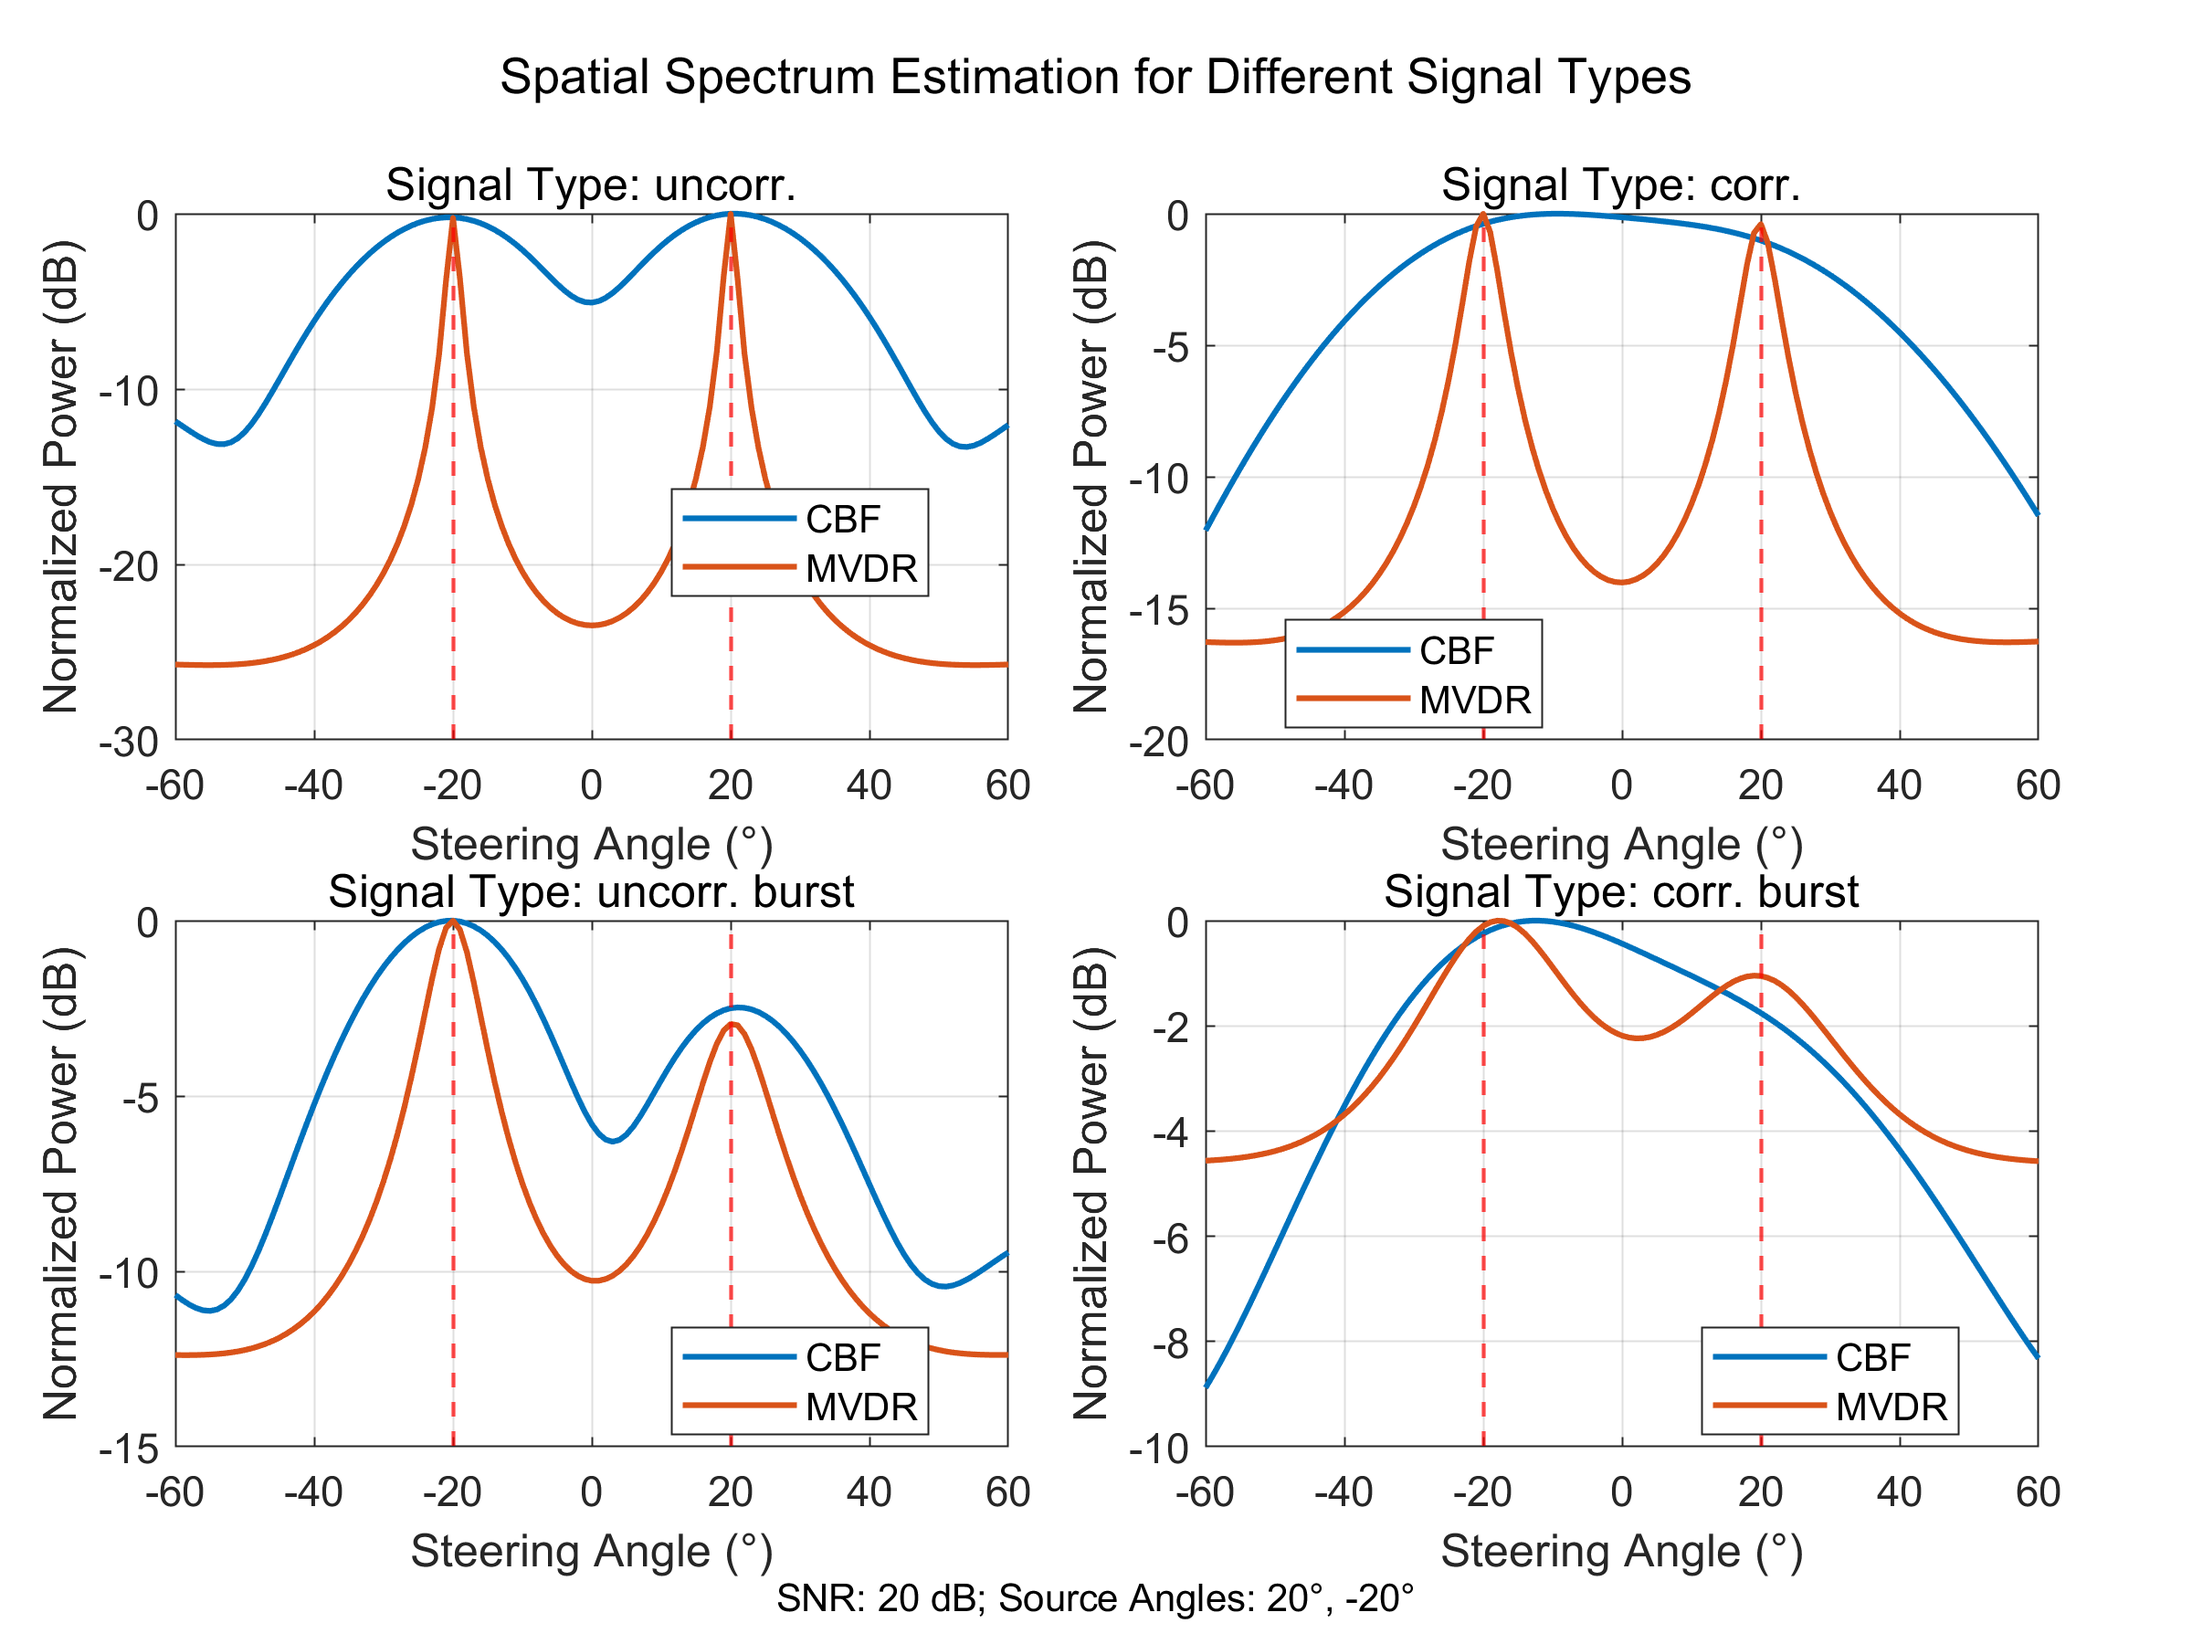
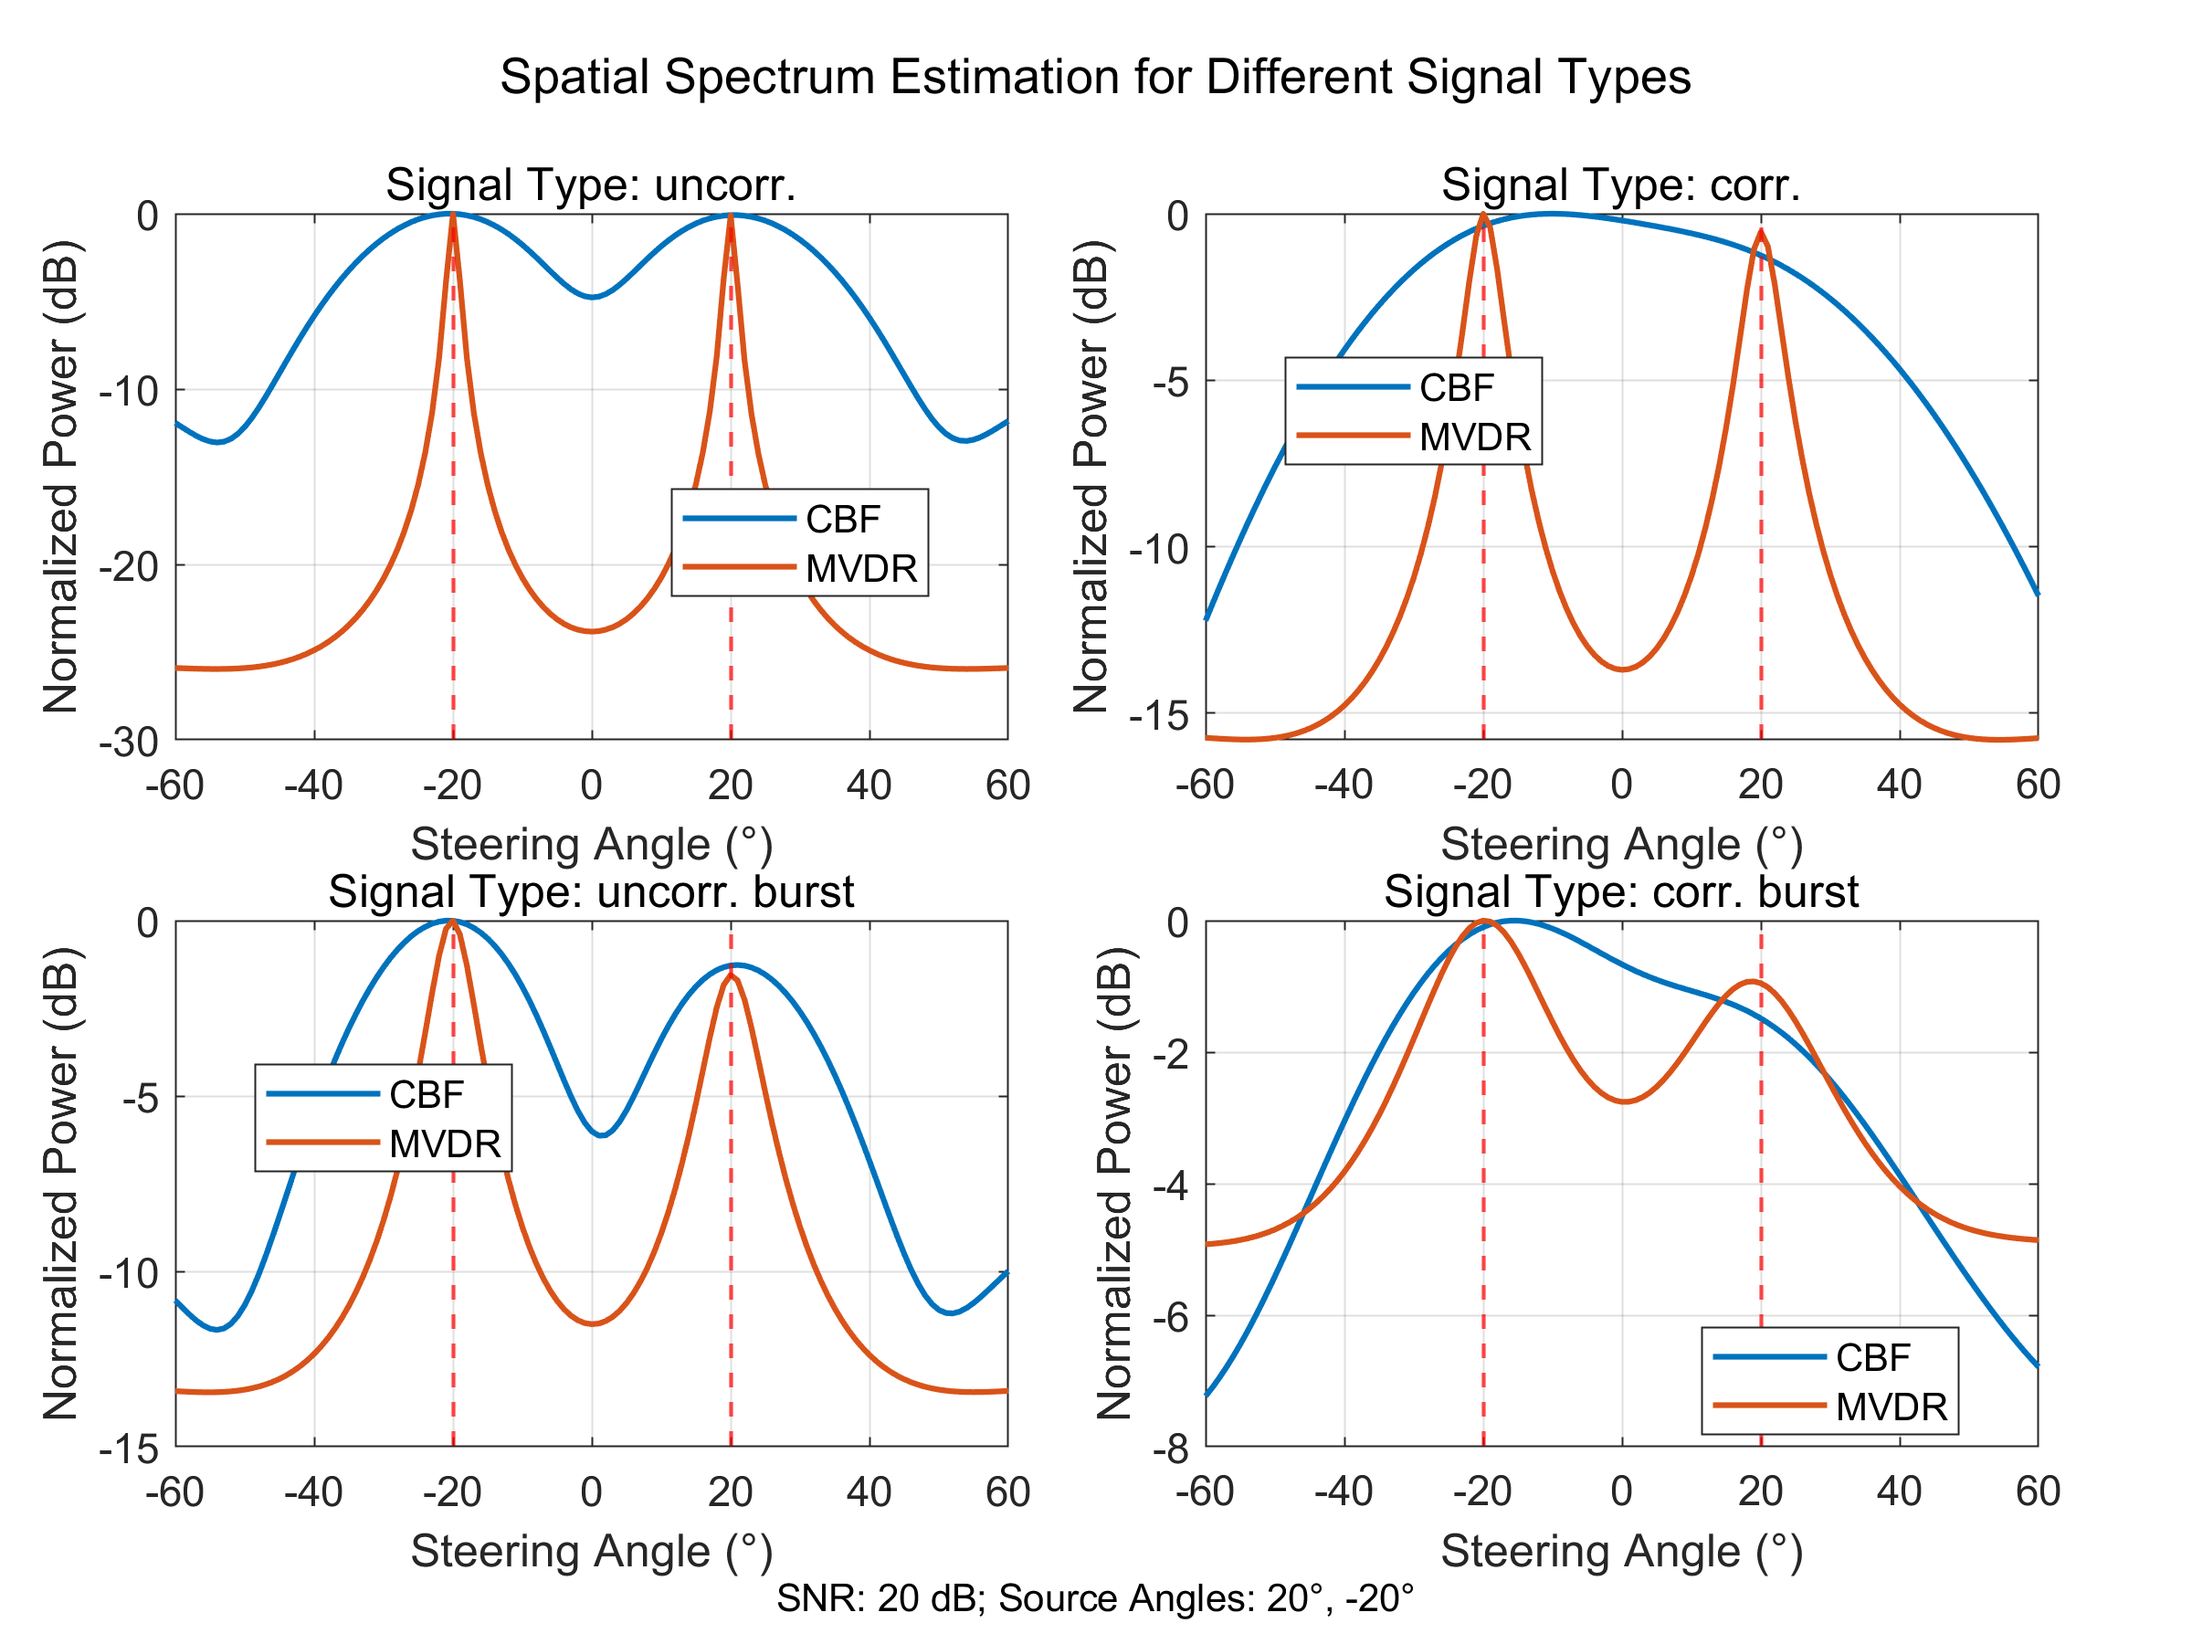
add element gain deviation figure

diff --git a/dsp/scripts/cbf_mvdr_sim.m b/dsp/scripts/cbf_mvdr_sim.m
@@ -22,6 +22,10 @@ Nsamp = 1024; % Number of samples
 nSignal = 1;  % Signal power [W] at each antenna
 pos = getElementPosition(ula) / lambda;
 steering_vector = phased.SteeringVector('SensorArray', ula, 'PropagationSpeed', c);
+theta_scan = -60:1:60; % Range of angles to scan
+
+% Constant Seed for Random Number Generator
+rng(1337);
 
 %% Varying SNR
 snr_values = [-10, 0, 10, 20]; % SNR values in dB
@@ -59,7 +63,6 @@ for idx = 1:length(snr_values)
     R = (signal' * signal) / Nsamp;
 
     % Calculate spectrum
-    theta_scan = -60:1:60; % Range of angles to scan
     P_mvdr = zeros(size(theta_scan)); % MVDR power
     P_cbf = zeros(size(theta_scan));  % CBF power
 
@@ -140,7 +143,6 @@ for idx = 1:length(source_spacing_values)
     R = (signal' * signal) / Nsamp;
 
     % Calculate spectrum
-    theta_scan = -60:1:60;
     P_mvdr = zeros(size(theta_scan));
     P_cbf = zeros(size(theta_scan));
 
@@ -244,7 +246,6 @@ for idx = 1:length(signal_types)
     R = (signal' * signal) / Nsamp;
 
     % Calculate spectrum
-    theta_scan = -60:1:60;
     P_mvdr = zeros(size(theta_scan));
     P_cbf = zeros(size(theta_scan));
 
@@ -288,3 +289,123 @@ annotation('textbox', [0, 0, 1, 0.05], ...
 % Save the figure
 set(figure_types, 'PaperPositionMode', 'auto');
 print(figure_types, fullfile(save_path, 'Spatial_Spectrum_Signal_Types.png'), '-dpng', '-r300');
+
+%% Varying Antenna Gains
+% Number of runs for averaging
+N_runs = 10;
+
+gain_max_deviation_values = [0, 1, 3, 10]; % in dB
+figure_gains = figure;
+nPower = nSignal / (10 ^ (20 / 10)); % Fixed SNR of 20 dB
+set(figure_gains, 'Units', 'inches', 'Position', [1, 1, FigureWidth, FigureHeight]);
+
+% Adjusted positions for the subplots to increase vertical spacing
+subplot_positions = [
+    0.08, 0.55, 0.38, 0.32; % Subplot 1
+    0.55, 0.55, 0.38, 0.32; % Subplot 2
+    0.08, 0.12, 0.38, 0.32; % Subplot 3
+    0.55, 0.12, 0.38, 0.32; % Subplot 4
+];
+
+for idx = 1:length(gain_max_deviation_values)
+    gain_max_dev_db = gain_max_deviation_values(idx);
+    gain_max_dev = db2pow(gain_max_dev_db);
+
+    % Initialize arrays to store results
+    P_mvdr_runs = zeros(length(theta_scan), N_runs);
+    P_cbf_runs = zeros(length(theta_scan), N_runs);
+
+    for run = 1:N_runs
+        % Random gain deviations for each run
+        gain_dev = rand([numElements, 1]) * gain_max_dev;
+
+        % Scale gains to have min 1 and max gain_max_dev
+        gain_dev = 1 + (gain_dev - min(gain_dev)) * (gain_max_dev - 1) / (max(gain_dev) - min(gain_dev));
+
+        % Generate uncorrelated signals
+        s1 = sqrt(nSignal) * randn(Nsamp, 1); % Signal 1
+        s2 = sqrt(nSignal) * randn(Nsamp, 1); % Signal 2
+
+        % Source angles
+        ang1 = 20;   % First signal angle
+        ang2 = -20;  % Second signal angle
+
+        % Steering vectors
+        sv1 = gain_dev .* steering_vector(fc, ang1);
+        sv2 = gain_dev .* steering_vector(fc, ang2);
+
+        % Received signal at the array
+        signal = (s1 * sv1.') + (s2 * sv2.') + sqrt(nPower) * randn(Nsamp, numElements);
+
+        % Estimate covariance matrix
+        R = (signal' * signal) / Nsamp;
+
+        % Calculate spectrum for this run
+        P_mvdr = zeros(length(theta_scan), 1);
+        P_cbf = zeros(length(theta_scan), 1);
+
+        for i = 1:length(theta_scan)
+            ang = theta_scan(i);
+            s = steering_vector(fc, -ang); % Note the negative sign
+            w_mvdr = inv(R) * (s / (s' * inv(R) * s));
+            w_cbf = s / numElements; % CBF weights
+            P_mvdr(i) = real(1 / (s' * inv(R) * s)); % MVDR spectral power
+            P_cbf(i) = real(w_cbf' * R * w_cbf);     % CBF spectral power
+        end
+
+        % Normalize spectrum
+        P_mvdr = P_mvdr / max(P_mvdr);
+        P_cbf = P_cbf / max(P_cbf);
+
+        % Store the results
+        P_mvdr_runs(:, run) = P_mvdr;
+        P_cbf_runs(:, run) = P_cbf;
+    end
+
+    % Compute mean and standard deviation over runs
+    P_mvdr_mean = mean(P_mvdr_runs, 2);
+    P_cbf_mean = mean(P_cbf_runs, 2);
+
+    P_mvdr_std = std(P_mvdr_runs, 0, 2);
+    P_cbf_std = std(P_cbf_runs, 0, 2);
+
+    % Generate subplot with adjusted position
+    axes('Position', subplot_positions(idx, :));
+    hold on;
+
+    % Plot individual runs (cloud) with semi-transparent lines
+    for run = 1:N_runs
+        % Plot CBF runs
+        plot(theta_scan, 10 * log10(P_cbf_runs(:, run)), '-', 'LineWidth', 1, 'Color', [0 0.4470 0.7410 0.3], 'HandleVisibility', 'off');
+        % Plot MVDR runs
+        plot(theta_scan, 10 * log10(P_mvdr_runs(:, run)), '-', 'LineWidth', 1, 'Color', [0.8500 0.3250 0.0980 0.3], 'HandleVisibility', 'off');
+    end
+
+    % Plot mean results with solid lines
+    plot(theta_scan, 10 * log10(P_cbf_mean), '-', 'LineWidth', 2, 'Color', [0 0.4470 0.7410 1]);
+    plot(theta_scan, 10 * log10(P_mvdr_mean), '-', 'LineWidth', 2, 'Color', [0.8500 0.3250 0.0980 1]);
+
+    % Add red dotted vertical lines at source angles
+    xline(ang1, 'r--', 'LineWidth', 1);
+    xline(ang2, 'r--', 'LineWidth', 1);
+
+    % Adjust legend and labels
+    legend('CBF', 'MVDR', 'Location', 'best', 'FontSize', FontSize - 2);
+    xlabel(['Steering Angle ('  char(176) ')'], 'FontSize', FontSize - 1);
+    ylabel('Normalized Power (dB)', 'FontSize', FontSize - 1);
+    title(['Gain Dev. = ', num2str(gain_max_dev_db), ' dB'], 'FontSize', FontSize, 'FontWeight', 'normal');
+    grid on;
+    set(gca, 'FontSize', FontSize - 1);
+end
+
+% Adjust the position of the super title to prevent overlap
+sgtitle('Spatial Spectrum Estimation for Different Element Gains', 'FontSize', FontSize + 1);
+
+% Add a note to the figure below the subplots with adjusted position
+annotation('textbox', [0, 0, 1, 0.05], ...
+    'String', ['SNR: 20 dB; Signal Types: Uncorrelated Signals; Source Angles: 20°, -20°; ', num2str(N_runs), ' runs'], ...
+    'EdgeColor', 'none', 'HorizontalAlignment', 'center', 'FontSize', FontSize - 2);
+
+% Save the figure
+set(figure_gains, 'PaperPositionMode', 'auto');
+print(figure_gains, fullfile(save_path, 'Spatial_Spectrum_Gains.png'), '-dpng', '-r300');
